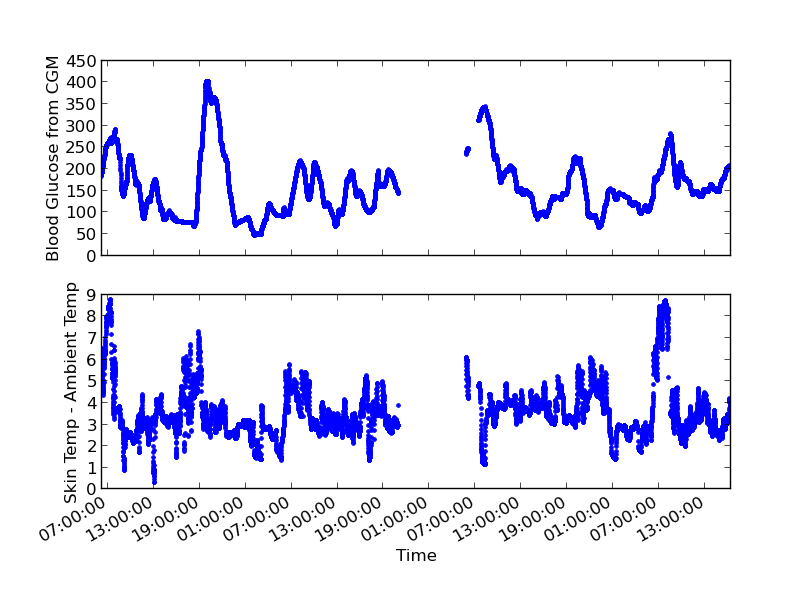
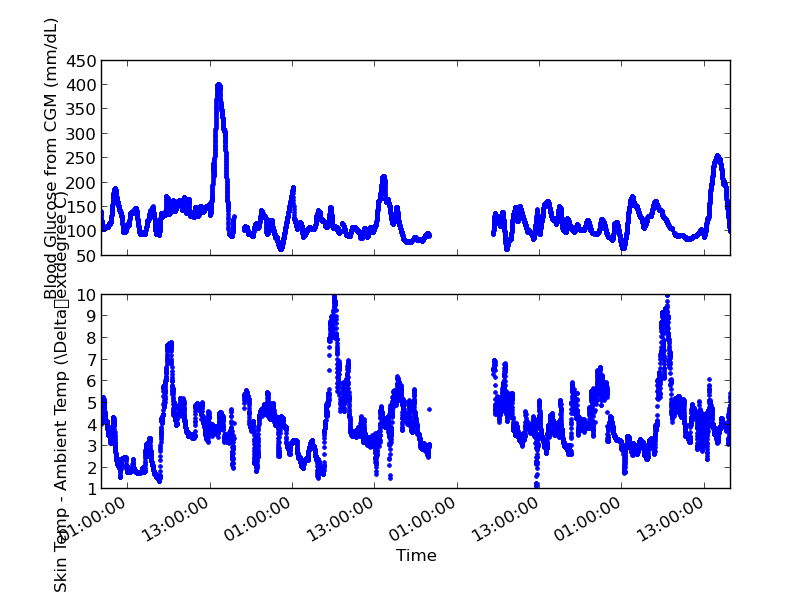
Modified basic plot for paper

Changed region(s): [[0.0308, 0.031, 0.8929, 0.9624], [0.585, 0.1552, 0.9236, 0.4036], [0.4926, 0.3725, 0.5542, 0.4036]]

diff --git a/plotBGST.py b/plotBGST.py
@@ -34,7 +34,7 @@ def stuffPlot(timestamps,func,title,ylabel):
 if not os.path.exists('plots'):
     os.mkdir('plots')
 
-data = t1dmread('trimmedDataFiles/MYFILE101.no_gaps_trimmed.csv')
+data = t1dmread('trimmedDataFiles/MYFILE105.no_gaps_trimmed.csv')
 timeStamps = np.array(data['timestamp'])
 skinTemp = np.array(data['skin temp'])
 airTemp = np.array(data['air temp'])
@@ -42,7 +42,6 @@ steps = np.array(data['steps'])
 hr = np.array(data['hr'])
 cgm = np.array(data['cgm'])
 normskintemp = skinTemp - airTemp
-
 
 fig = pl.figure()
 cgmFig = fig.add_subplot(211)
